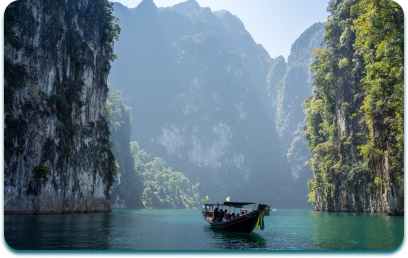
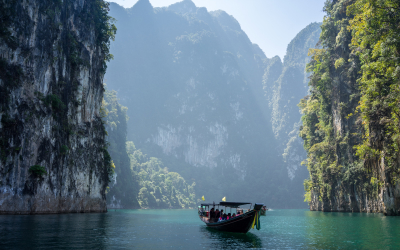
1.1

diff --git a/styles.css b/styles.css
@@ -219,7 +219,8 @@ article > div > h2 {
 }
 
 .destinations > h2 {
-    margin: 0 0 46px 470px;
+    margin: 0;
+    padding: 0 0 46px 470px;
     font-family: 'Red Hat Text',serif;
     font-style: normal;
     font-weight: 500;
@@ -233,7 +234,7 @@ article > div > h2 {
     flex-direction: row;
     align-items: flex-start;
     padding: 0;
-    gap: 60px;
+    gap: 70px;
     width: 1440px;
     overflow:hidden;
 }
@@ -245,7 +246,7 @@ article > div > h2 {
     font-family: 'Red Hat Text',serif;
     font-style: normal;
     font-weight: 500;
-    font-size: 32px;
+    font-size: 31px;
     line-height: 42px;
     color: #FFFFFF;
     left: 0;
@@ -372,6 +373,10 @@ article > div > h2 {
     width: 760px;
 }
 
+.thailand > img, .utah > img, .long > img {
+    border-radius: 16px;
+}
+
 .thailand > div > h4, .utah > div > h4, .long > div > h4 {
     font-family: 'Aleo',serif;
     font-style: normal;
@@ -435,7 +440,6 @@ footer > ul > li {
 footer, .stories {
     background-image: url("image/global.jpg");
     background-repeat: no-repeat;
-    background-size: 100%;
     background-position: bottom;
     background-attachment: fixed;
 }
@@ -447,7 +451,6 @@ footer, .stories {
 header, section {
     background-image: url("/image/header.jpg") ;
     background-repeat: no-repeat;
-    background-size: 100%;
     background-position: top;
     background-attachment: fixed;
 }

diff --git a/index.js b/index.js
@@ -1,1 +1,1 @@
-console.log('10 \n' + '20 \n' + '48 \n' + '12 \n' + '5+5+0+0 \n')
+console.log('10 \n' + '20 \n' + '48 \n' + '12 \n' + '5+5+5+5 \n')
